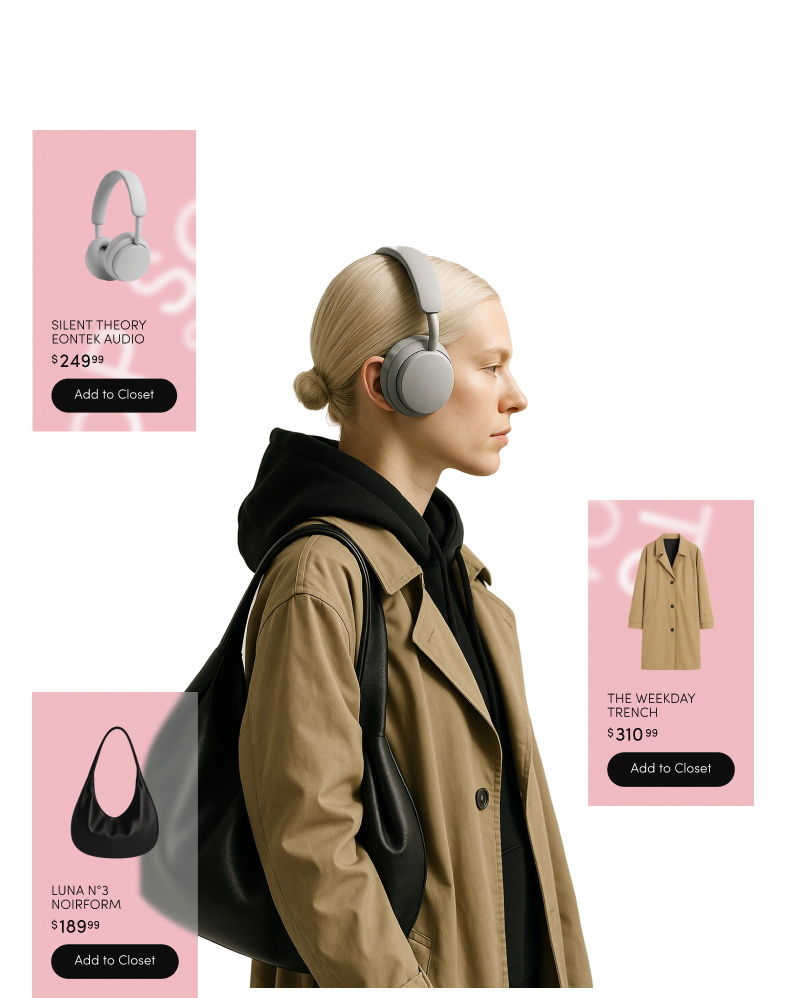
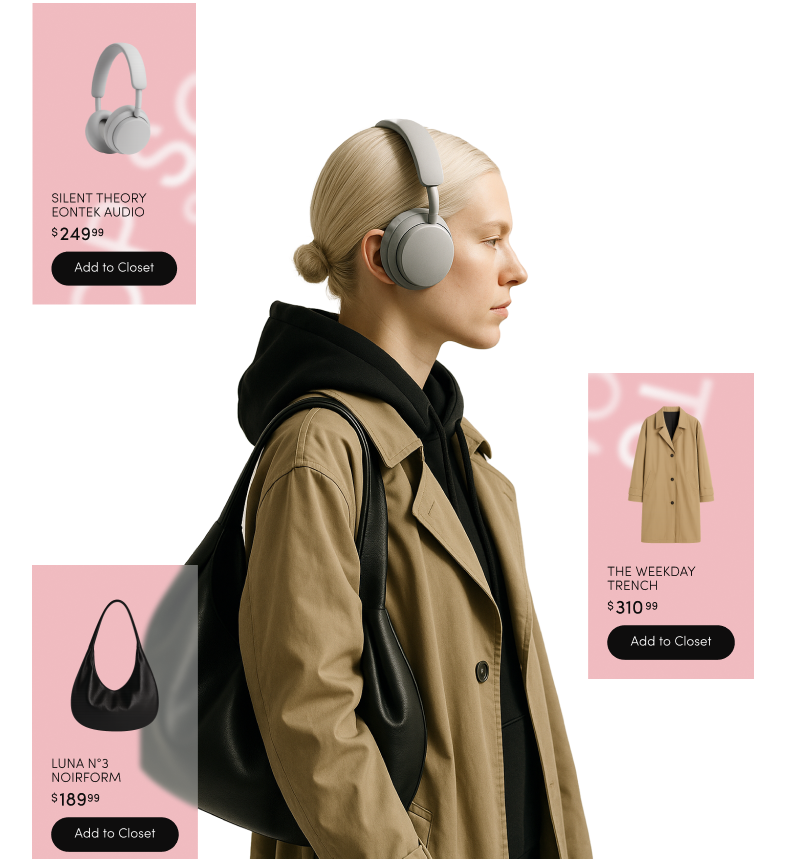
Adjust welcome page

Changed region(s): [[0.0305, 0.1211, 0.9771, 1.0], [0.0305, 0.0, 0.2748, 0.454], [0.2443, 0.7264, 0.2748, 0.7567]]

diff --git a/assets/css/styles.css b/assets/css/styles.css
@@ -519,6 +519,9 @@
   .h-full {
     height: 100%;
   }
+  .h-screen {
+    height: 100vh;
+  }
   .max-h-\[500px\] {
     max-height: 500px;
   }
@@ -984,6 +987,9 @@
   .pt-8 {
     padding-top: calc(var(--spacing) * 8);
   }
+  .pt-12 {
+    padding-top: calc(var(--spacing) * 12);
+  }
   .pt-16 {
     padding-top: calc(var(--spacing) * 16);
   }
@@ -1263,6 +1269,11 @@
       outline-style: none;
     }
   }
+  .sm\:px-12 {
+    @media (width >= 40rem) {
+      padding-inline: calc(var(--spacing) * 12);
+    }
+  }
   .md\:block {
     @media (width >= 600px) {
       display: block;
@@ -1311,6 +1322,26 @@
   .md\:grid-cols-5 {
     @media (width >= 600px) {
       grid-template-columns: repeat(5, minmax(0, 1fr));
+    }
+  }
+  .md\:p-5 {
+    @media (width >= 600px) {
+      padding: calc(var(--spacing) * 5);
+    }
+  }
+  .md\:px-5 {
+    @media (width >= 600px) {
+      padding-inline: calc(var(--spacing) * 5);
+    }
+  }
+  .md\:px-12 {
+    @media (width >= 600px) {
+      padding-inline: calc(var(--spacing) * 12);
+    }
+  }
+  .md\:pt-12 {
+    @media (width >= 600px) {
+      padding-top: calc(var(--spacing) * 12);
     }
   }
 }
@@ -1508,7 +1539,4 @@
       --tw-backdrop-sepia: initial;
     }
   }
-}
-::-webkit-scrollbar {
-  display: none;
 }

diff --git a/pages/welcome.html b/pages/welcome.html
@@ -6,12 +6,15 @@
   <meta name="viewport" content="width=device-width, initial-scale=1.0">
   <title>Welcome to Copycart</title>
   <link href="./../assets/css/styles.css" rel="stylesheet">
+  <link href="./../assets/css/global.css" rel="stylesheet">
 </head>
 
-<body class="min-h-screen flex justify-between bg-gray-200 max-w-[1400px] mx-auto my-0">
-  <div class="bg-white w-full flex flex-col items-center md:max-w-[1400px] max-w-[600px]">
-    <div class="max-w-[600px] bg-[#F197A1] flex flex-col items-center px-5 gap-2 pt-16 w-full pb-6">
-      <img src="./../assets/images/10.png" class="flex-grow object-contain h-full" alt="10.png">
+<body class="h-screen flex justify-center bg-gray-200 max-w-[1400px] mx-auto my-0">
+  <div class="bg-gray-100 w-full flex flex-col items-center md:max-w-[1400px] max-w-[600px]">
+    <div class="max-w-[600px] h-full bg-[#F197A1] flex flex-col justify-end items-center w-full">
+      <div class="px-6">
+        <img src="./../assets/images/10.png" class="object-cover" alt="10.png">
+      </div>
       <div class="w-full rounded-t-2xl gap-4 bg-white p-5">
         <p class="text-[54px] leading-[100%]">WELCOME TO COPYCART</p>
         <p class="text-lg mt-4">Tap to shop from real posts you love!</p>

diff --git a/pages/account-privacy.html b/pages/account-privacy.html
@@ -6,6 +6,7 @@
   <meta name="viewport" content="width=device-width, initial-scale=1.0">
   <title>Copycart</title>
   <link href="./../assets/css/styles.css" rel="stylesheet">
+  <link href="./../assets/css/global.css" rel="stylesheet">
 </head>
 
 <body class="min-h-screen flex justify-between bg-gray-200 max-w-[1400px] mx-auto my-0">

diff --git a/pages/add-closet-item.html b/pages/add-closet-item.html
@@ -6,6 +6,7 @@
   <meta name="viewport" content="width=device-width, initial-scale=1.0">
   <title>Copycart</title>
   <link href="./../assets/css/styles.css" rel="stylesheet">
+  <link href="./../assets/css/global.css" rel="stylesheet">
 </head>
 
 <body class="min-h-screen flex justify-between bg-gray-200 max-w-[1400px] mx-auto my-0">

diff --git a/pages/add-closet-items.html b/pages/add-closet-items.html
@@ -6,6 +6,7 @@
   <meta name="viewport" content="width=device-width, initial-scale=1.0">
   <title>Copycart</title>
   <link href="./../assets/css/styles.css" rel="stylesheet">
+  <link href="./../assets/css/global.css" rel="stylesheet">
 </head>
 
 <body class="min-h-screen flex justify-between bg-gray-200 max-w-[1400px] mx-auto my-0">

diff --git a/pages/add-new.html b/pages/add-new.html
@@ -6,6 +6,7 @@
   <meta name="viewport" content="width=device-width, initial-scale=1.0">
   <title>Copycart</title>
   <link href="./../assets/css/styles.css" rel="stylesheet">
+  <link href="./../assets/css/global.css" rel="stylesheet">
 </head>
 
 <body class="min-h-screen flex justify-between bg-gray-200 max-w-[1400px] mx-auto my-0">

diff --git a/pages/add-post-item.html b/pages/add-post-item.html
@@ -6,6 +6,7 @@
   <meta name="viewport" content="width=device-width, initial-scale=1.0">
   <title>Copycart</title>
   <link href="./../assets/css/styles.css" rel="stylesheet">
+  <link href="./../assets/css/global.css" rel="stylesheet">
 </head>
 
 <body class="min-h-screen flex justify-between bg-gray-200 max-w-[1400px] mx-auto my-0">

diff --git a/pages/bucket.html b/pages/bucket.html
@@ -6,6 +6,7 @@
   <meta name="viewport" content="width=device-width, initial-scale=1.0">
   <title>Copycart</title>
   <link href="./../assets/css/styles.css" rel="stylesheet">
+  <link href="./../assets/css/global.css" rel="stylesheet">
 </head>
 
 <body class="min-h-screen flex justify-between bg-gray-200 max-w-[1400px] mx-auto my-0">

diff --git a/pages/friends.html b/pages/friends.html
@@ -6,6 +6,7 @@
   <meta name="viewport" content="width=device-width, initial-scale=1.0">
   <title>Copycart</title>
   <link href="./../assets/css/styles.css" rel="stylesheet">
+  <link href="./../assets/css/global.css" rel="stylesheet">
 </head>
 
 <body class="min-h-screen flex justify-between bg-gray-200 max-w-[1400px] mx-auto my-0">

diff --git a/pages/menu.html b/pages/menu.html
@@ -6,6 +6,7 @@
   <meta name="viewport" content="width=device-width, initial-scale=1.0">
   <title>Copycart</title>
   <link href="./../assets/css/styles.css" rel="stylesheet">
+  <link href="./../assets/css/global.css" rel="stylesheet">
 </head>
 
 <body class="min-h-screen flex justify-between bg-gray-200 max-w-[1400px] mx-auto my-0">

diff --git a/pages/notifications.html b/pages/notifications.html
@@ -6,6 +6,7 @@
   <meta name="viewport" content="width=device-width, initial-scale=1.0">
   <title>Copycart</title>
   <link href="./../assets/css/styles.css" rel="stylesheet">
+  <link href="./../assets/css/global.css" rel="stylesheet">
 </head>
 
 <body class="min-h-screen flex justify-between bg-gray-200 max-w-[1400px] mx-auto my-0">

diff --git a/pages/post-detail.html b/pages/post-detail.html
@@ -6,6 +6,7 @@
   <meta name="viewport" content="width=device-width, initial-scale=1.0">
   <title>Copycart</title>
   <link href="./../assets/css/styles.css" rel="stylesheet">
+  <link href="./../assets/css/global.css" rel="stylesheet">
 </head>
 
 <body class="min-h-screen flex justify-between bg-gray-200 max-w-[1400px] mx-auto my-0">
